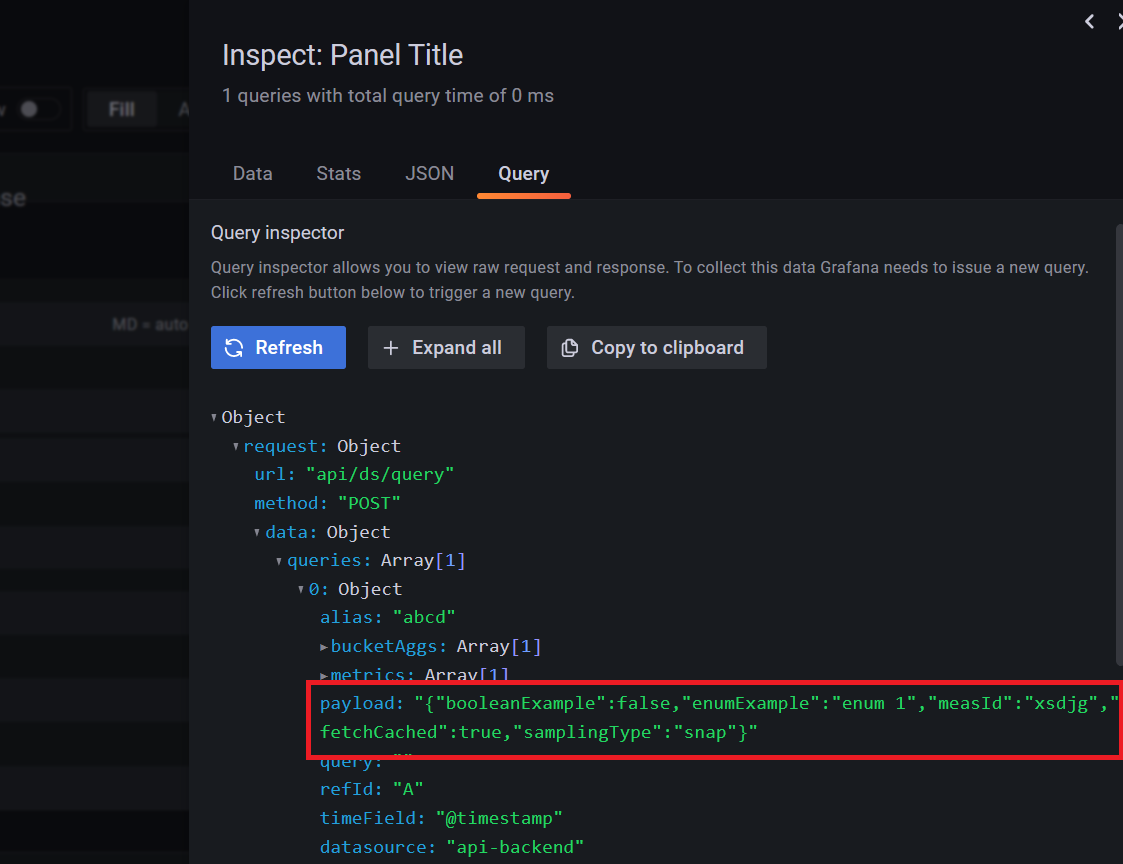
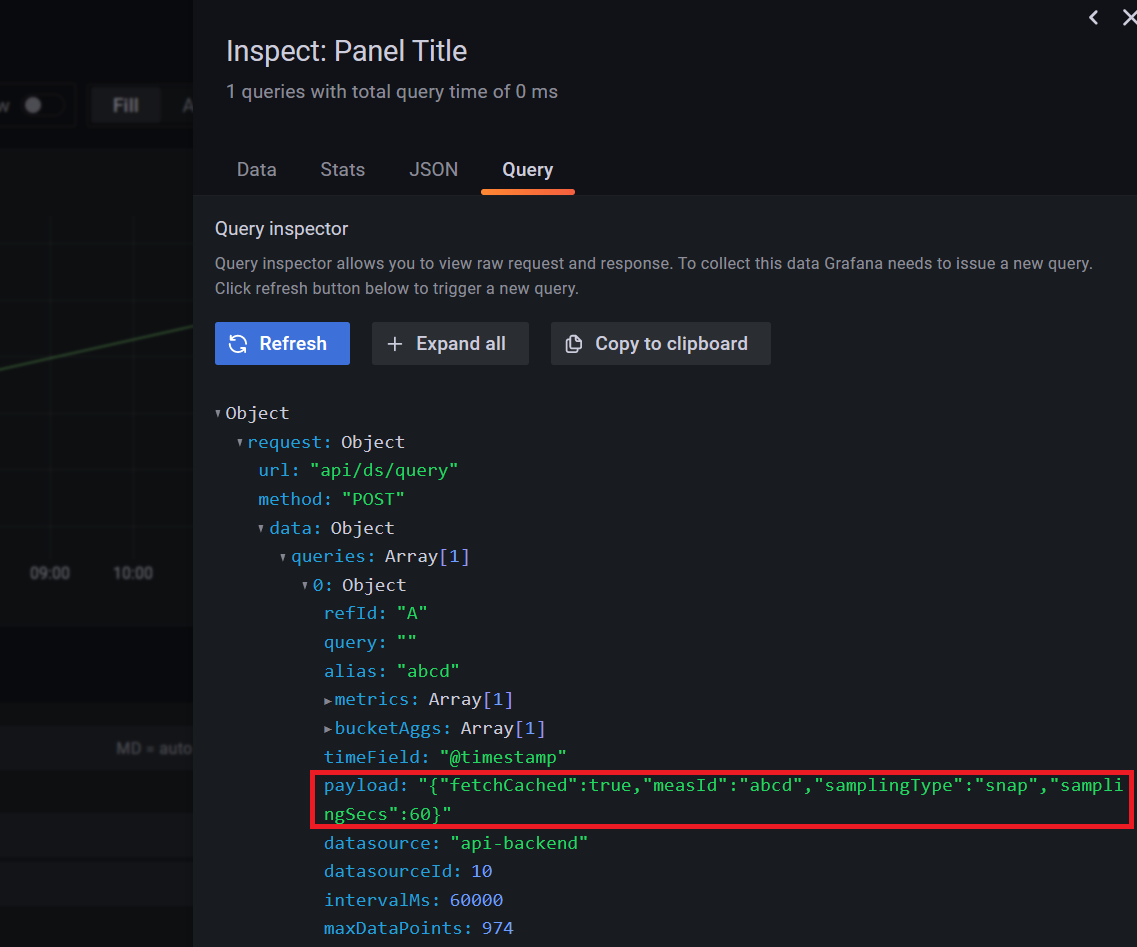
readme correction

diff --git a/README.md b/README.md
@@ -81,7 +81,7 @@
     "JSON": {
         "refId": "A",
         "alias": "abcd",
-        "payload": "{\"booleanExample\":false,\"enumExample\":\"enum 1\",\"measId\":\"xsdjg\",\"fetchCached\":true}",
+        "payload": "{\"fetchCached\":true,\"measId\":\"abcd\",\"samplingType\":\"snap\",\"samplingSecs\":60}",
         "bucketAggs": [
             {
                 "field": "@timestamp",
@@ -111,8 +111,8 @@
 ```json
 {
 	"data":[
-		{"name": "time", "values": [1665216413748, 1665219977028], "labels": None},
-		{"name": "abcd", "values": [5, 10], "labels": None}
+		{"name": "time", "values": [1665216413748, 1665219977028], "labels": null},
+		{"name": "abcd", "values": [5, 10], "labels": null}
 	]
 }
 ```
